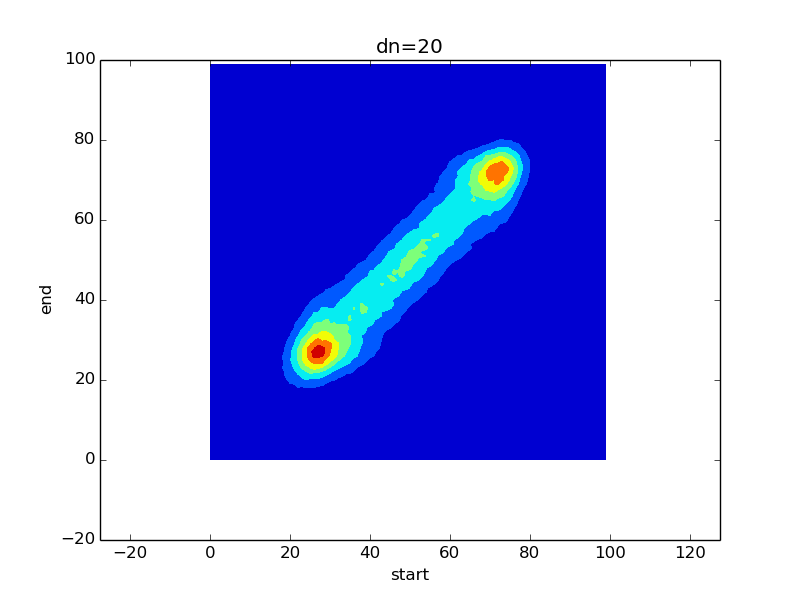
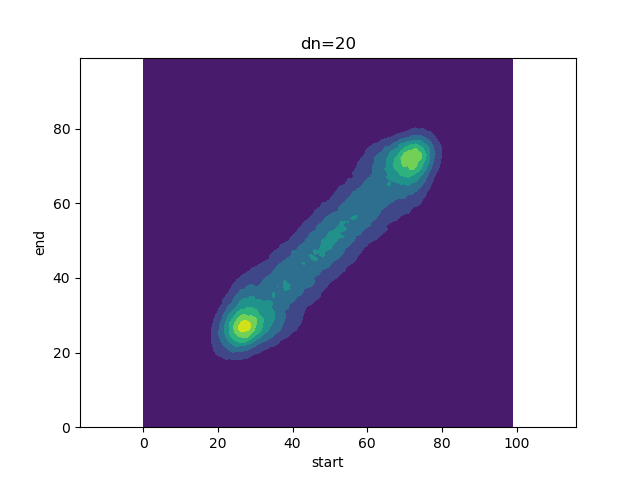
add plot function contours and do small changes

diff --git a/lib/tools/ffmc.py b/lib/tools/ffmc.py
@@ -22,24 +22,22 @@ import copy
 def guess_dim_transition_linebyline(filename):
     """get number of histogram bins from transition matrix file (one line per entry!!!)"""
     #print "Reading...", filename
-    f = file(filename)
-    count = 0
-    for line in f:   # skip lines starting with #
-        if not line.startswith("#"):
-            assert len(line.split())==1
-            count += 1
-    f.close()
+    with open(filename,"r") as f:
+        count = 0
+        for line in f:   # skip lines starting with #
+            if not line.startswith("#"):
+                assert len(line.split())==1
+                count += 1
     dim_trans = int(np.sqrt(count))
     return dim_trans
 
 def guess_dim_transition_square(filename):
     """get number of histogram bins from transition matrix file"""
     #print "Reading...", filename
-    f = file(filename)
-    for line in f:   # skip lines starting with #
-        if not line.startswith("#"):
-            dim_trans = len(line.split())
-    f.close()
+    with open(filename,"r") as f:
+        for line in f:   # skip lines starting with #
+            if not line.startswith("#"):
+                dim_trans = len(line.split())
     return dim_trans
 
 def read_transition_linebyline(filename,dim_trans):
@@ -49,26 +47,25 @@ def read_transition_linebyline(filename,dim_trans):
 
     transition = np.zeros((dim_trans,dim_trans))
     bins = []
-    f = file(filename)
-    for line in f:
-        if line.startswith("#bins"):
-            words = line.split()
-            bins = [float(word) for word in words[1:]]  # skip first
-            bins = np.array(bins)   # bin edges
-            assert len(bins) == dim_trans+1
-        if not line.startswith("#"):
-            transition[0,0] = np.float64(line)   # put first line in [0,0] element
-            k = 1
-            break
-    for line in f:  # read other lines
-        if not line.startswith("#"):
-            (k1, k2 ) = divmod ( k , dim_trans )
-            transition[k1,k2] = np.float64(line)
-            k += 1
-    if k != dim_trans**2:
-        print("wrong number of entries in ", filename)
-        quit()
-    f.close()
+    with open(filename,"r") as f:
+        for line in f:
+            if line.startswith("#bins"):
+                words = line.split()
+                bins = [float(word) for word in words[1:]]  # skip first
+                bins = np.array(bins)   # bin edges
+                assert len(bins) == dim_trans+1
+            if not line.startswith("#"):
+                transition[0,0] = np.float64(line)   # put first line in [0,0] element
+                k = 1
+                break
+        for line in f:  # read other lines
+            if not line.startswith("#"):
+                (k1, k2 ) = divmod ( k , dim_trans )
+                transition[k1,k2] = np.float64(line)
+                k += 1
+        if k != dim_trans**2:
+            print("wrong number of entries in ", filename)
+            quit()
 
     if len(bins) == 0:  # use linear
         bins = np.arange(dim_trans+1)
@@ -83,27 +80,26 @@ def read_transition_square(filename,dim_trans):
     transition = np.zeros((dim_trans,dim_trans))
     bins = []
     Dt = 0
-    f = file(filename)
-    row = 0
-    for line in f:
-        if line.startswith("#Dt"):
-            words = line.split()
-            assert len(words)==2
-            Dt = float(words[1])   # this is the lagtime!!
-        if line.startswith("#bins"):
-            words = line.split()
-            bins = [float(word) for word in words[1:]]  # skip first
-            bins = np.array(bins)   # bin edges
+    with open(filename,"r") as f:
+        row = 0
+        for line in f:
+            if line.startswith("#Dt"):
+                words = line.split()
+                assert len(words)==2
+                Dt = float(words[1])   # this is the lagtime!!
+            if line.startswith("#bins"):
+                words = line.split()
+                bins = [float(word) for word in words[1:]]  # skip first
+                bins = np.array(bins)   # bin edges
 
-         # TODO   assert len(bins) == dim_trans+1
-        if not line.startswith("#"):
-            words = line.split()
-            transition[row,:] = [int(word) for word in words]
-            row += 1
-    if row != dim_trans:
-        print("wrong number of entries in ", filename)
-        quit()
-    f.close()
+             # TODO   assert len(bins) == dim_trans+1
+            if not line.startswith("#"):
+                words = line.split()
+                transition[row,:] = [int(word) for word in words]
+                row += 1
+        if row != dim_trans:
+            print("wrong number of entries in ", filename)
+            quit()
 
     if len(bins) == 0:  # use linear
         bins = np.arange(dim_trans+1)

diff --git a/examples/manipulate-transition-matrices/plot_contour.py b/examples/manipulate-transition-matrices/plot_contour.py
@@ -11,7 +11,25 @@ shift = 20  # lag time, or "dn"
 nbins = 100
 filename = "../data/HexdWat/transitions.nbins100.20.pbc.A.dat"
 
-print "Plotting...", filename
+print("Plotting...", filename)
 trans,bins,Dt = read_transition_square(filename,nbins)
 plot_transition(trans,shift)
+
+if True:
+    # EXTRA
+    def plot_transition_histogram(trans,shift):
+        import matplotlib.pyplot as plt
+        import numpy as np
+        plt.figure()
+        x = np.arange(len(trans))
+        y = np.sum(trans,axis=0)
+        y2 = np.sum(trans,axis=1)
+        plt.plot(x,y,"o")
+        plt.plot(x,y2)
+        print(trans[:6,:6])
+        print(y)
+        print(y2)
+        plt.savefig("contour.%i.hist.png"%shift)
+
+    plot_transition_histogram(trans,shift)
 

diff --git a/lib/permeability/perm.py b/lib/permeability/perm.py
@@ -114,7 +114,9 @@ def calc_oxygentransportparameter(F,D,edges):
     # F in units kBT, D in units A^2/ps
     aveD = [(D[0]+D[-1])/2.] + ((D[1:]+D[:-1])/2.).tolist()
     aveD = np.array(aveD)
-    part = np.exp(-(F-min(F)))
+    #Fref = min(F)
+    Fref = F[0]    # in the water phase
+    part = np.exp(-(F-Fref))
     edges_mid = (edges[:-1]+edges[1:])/2.
     product = aveD*part     # in unit A^2/ps
     return product,edges_mid
